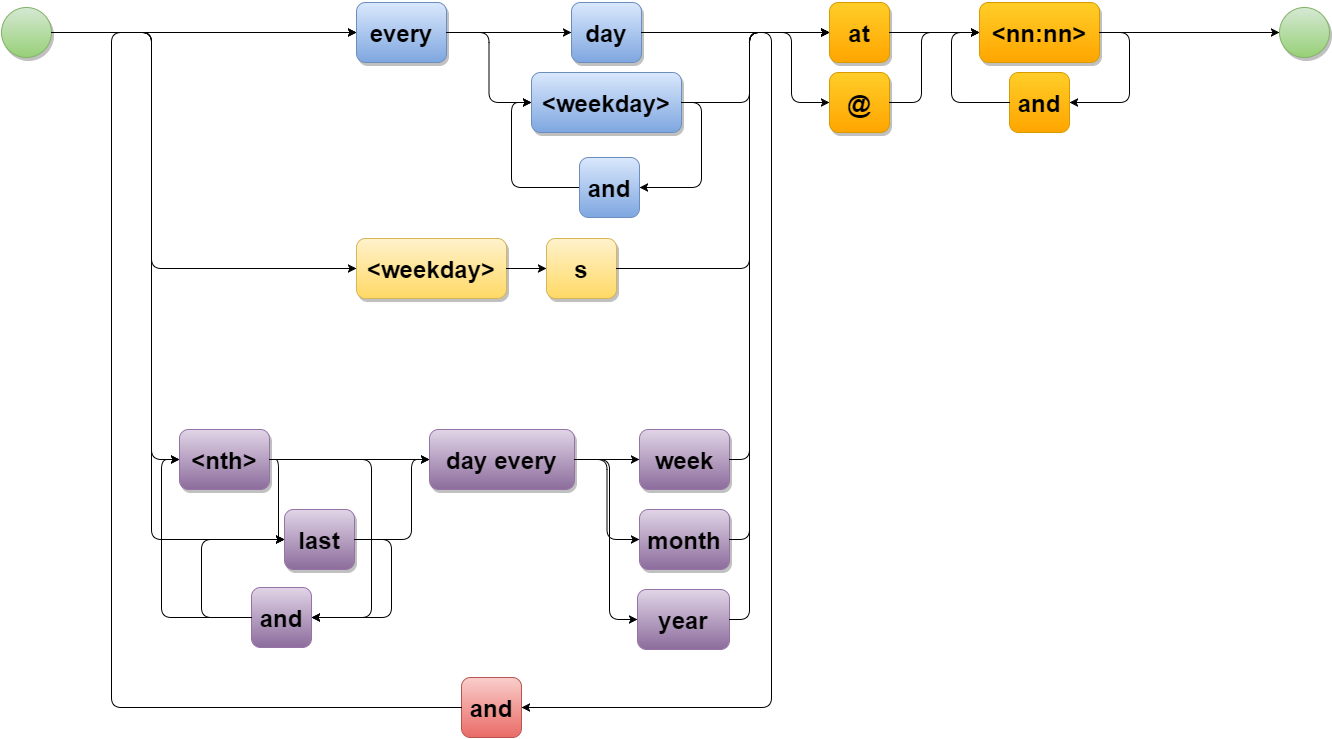
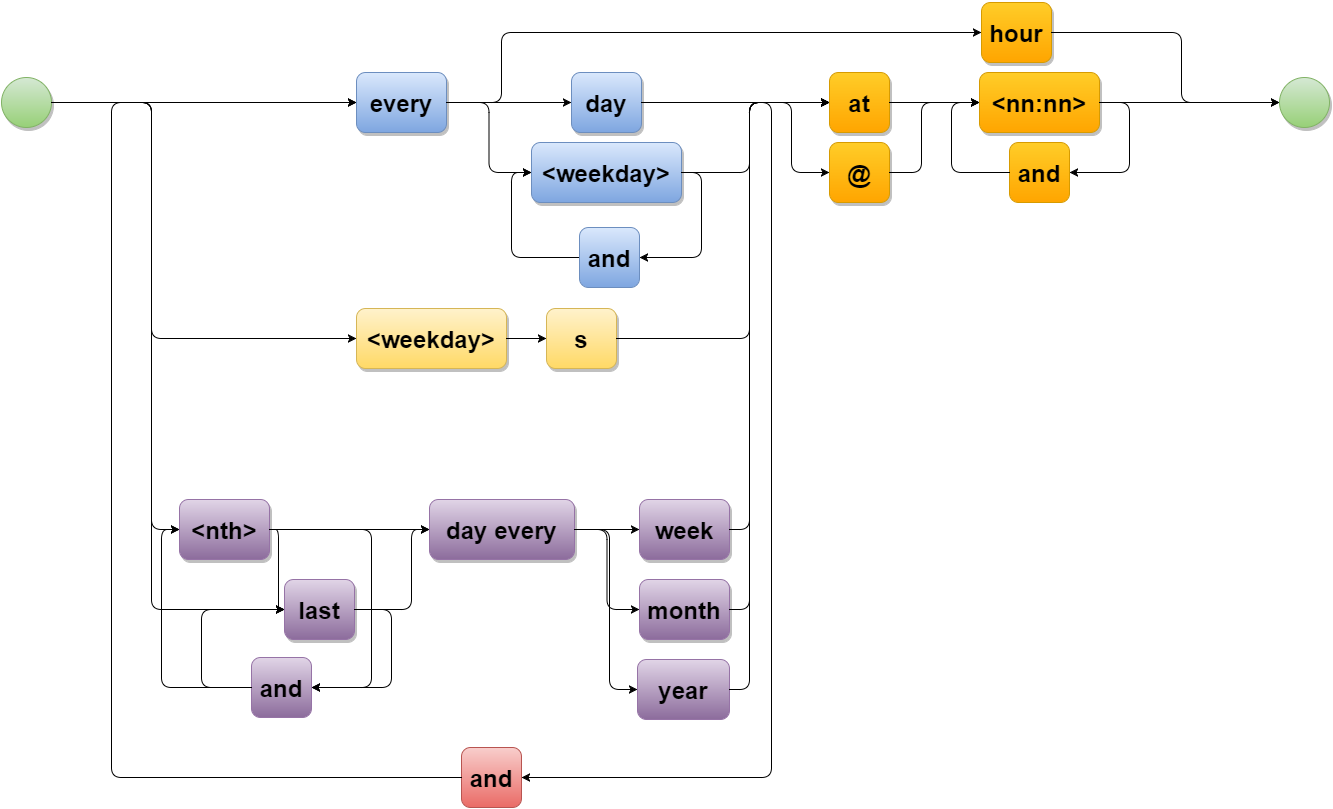
Added "every hour"

diff --git a/GoldenFox/ScheduleParser.cs b/GoldenFox/ScheduleParser.cs
@@ -18,7 +18,7 @@ namespace GoldenFox
         public ScheduleParser()
         {
             _tokenizer = new Tokenizer();
-            Add("every", "day", "month", "week", "year",
+            Add("every", "day", "month", "week", "year", "hour",
                 "at", "@", ":",
                 "st", "nd", "rd", "th",
                 "last",
@@ -46,7 +46,7 @@ namespace GoldenFox
             {
                 if (parts.NextIf("every"))
                 {
-                    if (parts.NextIf("day"))
+                    if (parts.NextIf("day") || parts.Peek("hour"))
                     {
                         days.AddRange(
                             new[]
@@ -57,7 +57,7 @@ namespace GoldenFox
                                     Tuple.Create(6, Interval.Week)
                                 });
                     }
-                    else
+                    else // weekday
                     {
                         do
                         {
@@ -128,14 +128,22 @@ namespace GoldenFox
 
         private List<Clock> ParseTimes(PartsTraverser parts)
         {
-            parts.SkipAnyOrFail("@", "at");
             var times = new List<Clock>();
-
-            do
+            if (parts.Peek("hour"))
             {
-                times.Add(ParseClock(parts));
+                times = Enumerable.Range(0, 24).Select(x => new Clock(x, 0)).ToList();
             }
-            while (parts.NextIf("and"));
+            else
+            {
+                parts.SkipAnyOrFail("@", "at");
+               
+
+                do
+                {
+                    times.Add(ParseClock(parts));
+                }
+                while (parts.NextIf("and"));
+            }
             return times;
         } 
 

diff --git a/Tests/Full/GoldenFoxTests.cs b/Tests/Full/GoldenFoxTests.cs
@@ -10,6 +10,21 @@ namespace Tests.Full
     [TestFixture]
     public class GoldenFoxTests
     {
+
+        [Test]
+        public void EveryHour()
+        {
+            var hundredHours = Schedule.Fox("every hour").From(new DateTime(2015, 1, 1, 5, 23, 2)).Take(100).ToList();
+            var index = 6;
+            Assert.AreEqual(100, hundredHours.Count());
+            foreach (var dateTime in hundredHours)
+            {
+                Assert.AreEqual(index % 24, dateTime.Hour);
+                Assert.AreEqual(1 + Math.Floor(index / 24d), dateTime.Day);
+                index++;
+            }
+        }
+
         [Test]
         public void TenDaysFromNowEveryDayAtTenOClock()
         {

diff --git a/GoldenFox/Properties/AssemblyInfo.cs b/GoldenFox/Properties/AssemblyInfo.cs
@@ -7,8 +7,8 @@ using System.Runtime.InteropServices;
 [assembly: AssemblyCopyright("Copyright © Mattias Nordqvist")]
 [assembly: AssemblyTrademark("")]
 [assembly: AssemblyCulture("")]
-[assembly: AssemblyVersion("1.0.1")]
-[assembly: AssemblyFileVersion("1.0.1")]
+[assembly: AssemblyVersion("1.0.2")]
+[assembly: AssemblyFileVersion("1.0.2")]
 [assembly: AssemblyProduct("Golden Fox")]
 [assembly: AssemblyCompany("Mattias Nordqvist")]
 

diff --git a/Tests/Full/ScheduleTests.cs b/Tests/Full/ScheduleTests.cs
@@ -6,6 +6,12 @@ namespace Tests.Full
     public class ScheduleTests
     {
         [Test]
+        public void EveryHour()
+        {
+            "every hour".From("2015-01-01 05:23", true).Gives("2015-01-01 06:00");
+        }
+
+        [Test]
         public void EveryDayAt_ExactlyTheSameTime()
         {
             "every day at 06:30".From("2015-10-05 06:30:00", true).Gives("2015-10-05 06:30:00");
